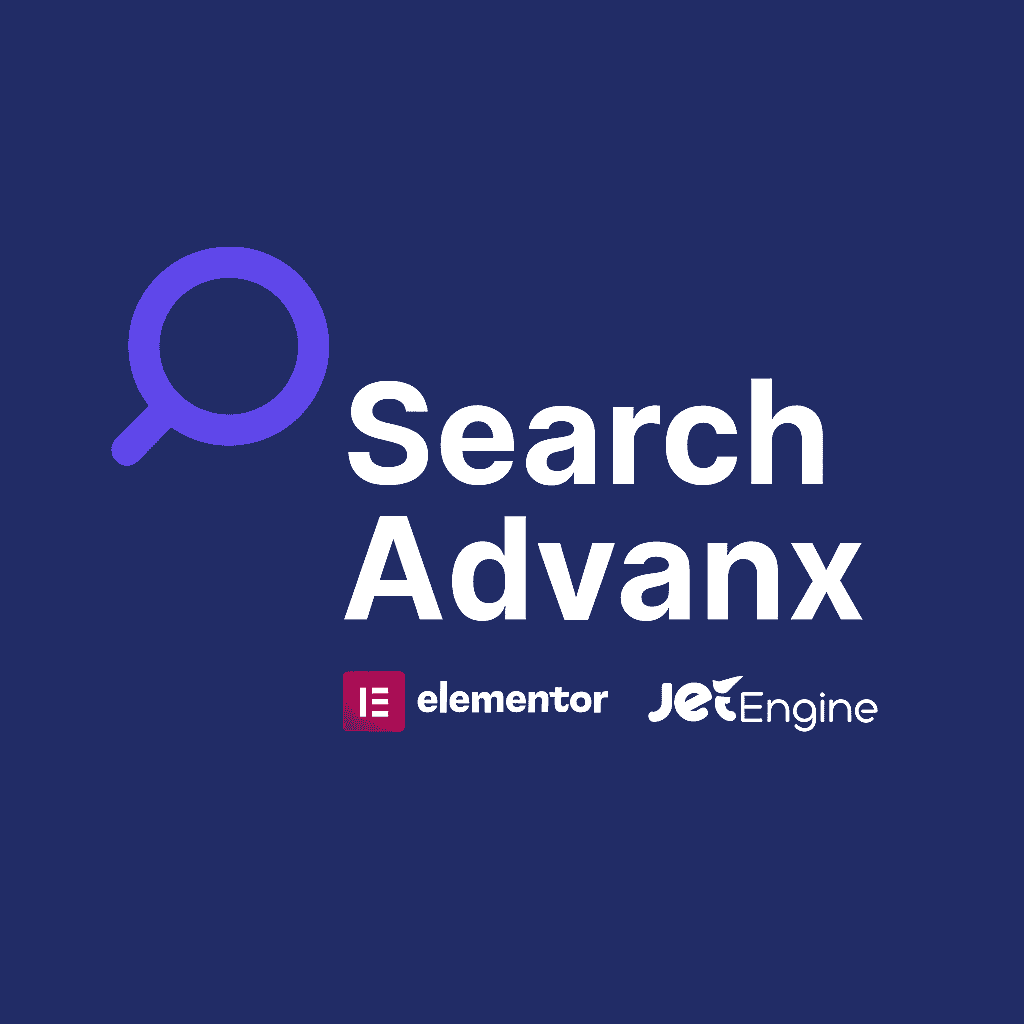
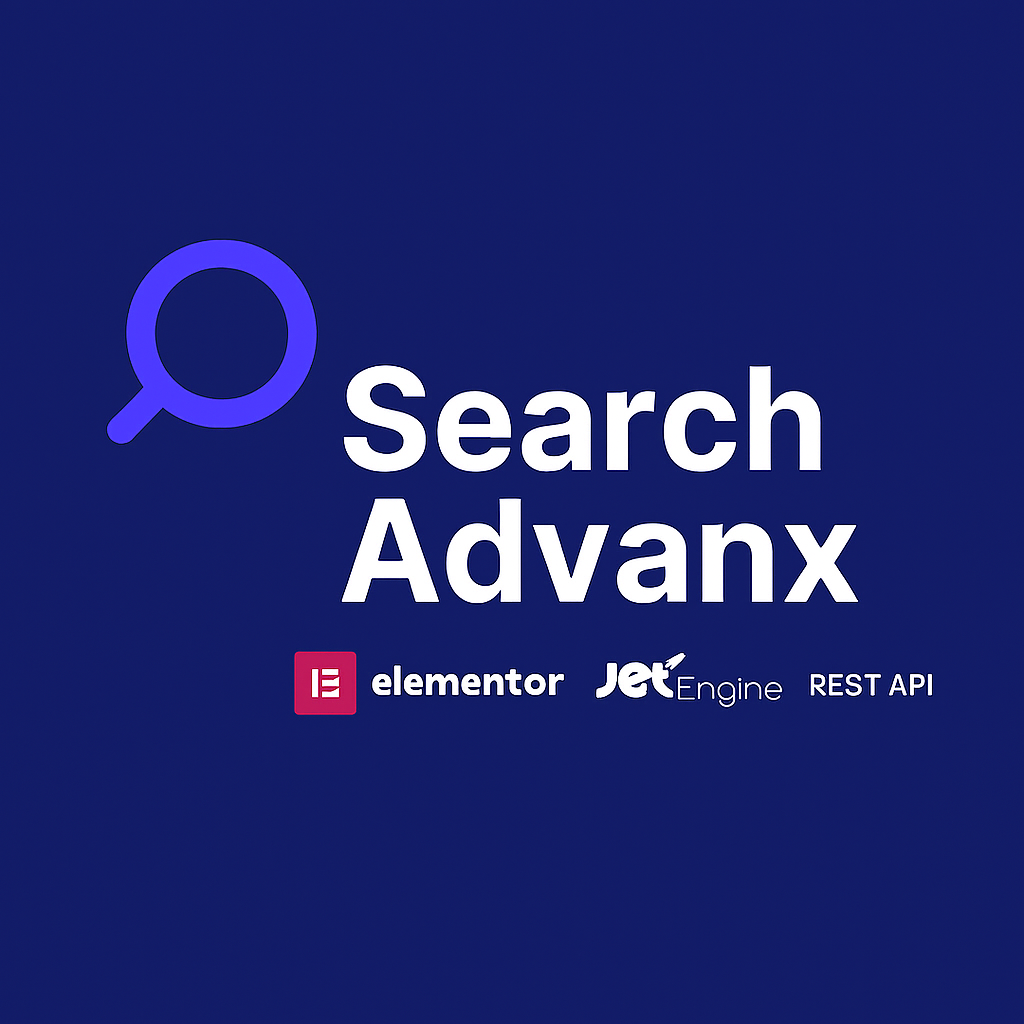
Fix External Sites page critical error and update cover image
- Fixed sites_page() method to use existing external_sites_manager_callback()
- Replaced non-existent display_external_sites() method call
- Added proper form structure with settings fields and submit button
- Updated search_cover.png with new design
- External Sites page now loads without critical errors

Changed region(s): [[0.0938, 0.2812, 0.9375, 0.7188], [0.125, 0.2188, 0.25, 0.3438]]

diff --git a/includes/admin/class-admin.php b/includes/admin/class-admin.php
@@ -405,7 +405,15 @@ class SearchAdvanx_Admin {
         <div class="wrap">
             <h1><?php echo esc_html(get_admin_page_title()); ?></h1>
             <div class="searchadvanx-admin-content">
-                <?php $this->display_external_sites(); ?>
+                <form method="post" action="options.php">
+                    <?php
+                    settings_fields('searchadvanx_settings');
+                    echo '<h2>External WordPress Sites Configuration</h2>';
+                    echo '<p>Configure external WordPress sites for cross-site searching functionality.</p>';
+                    $this->external_sites_manager_callback();
+                    submit_button('Save External Sites');
+                    ?>
+                </form>
             </div>
         </div>
         <?php
